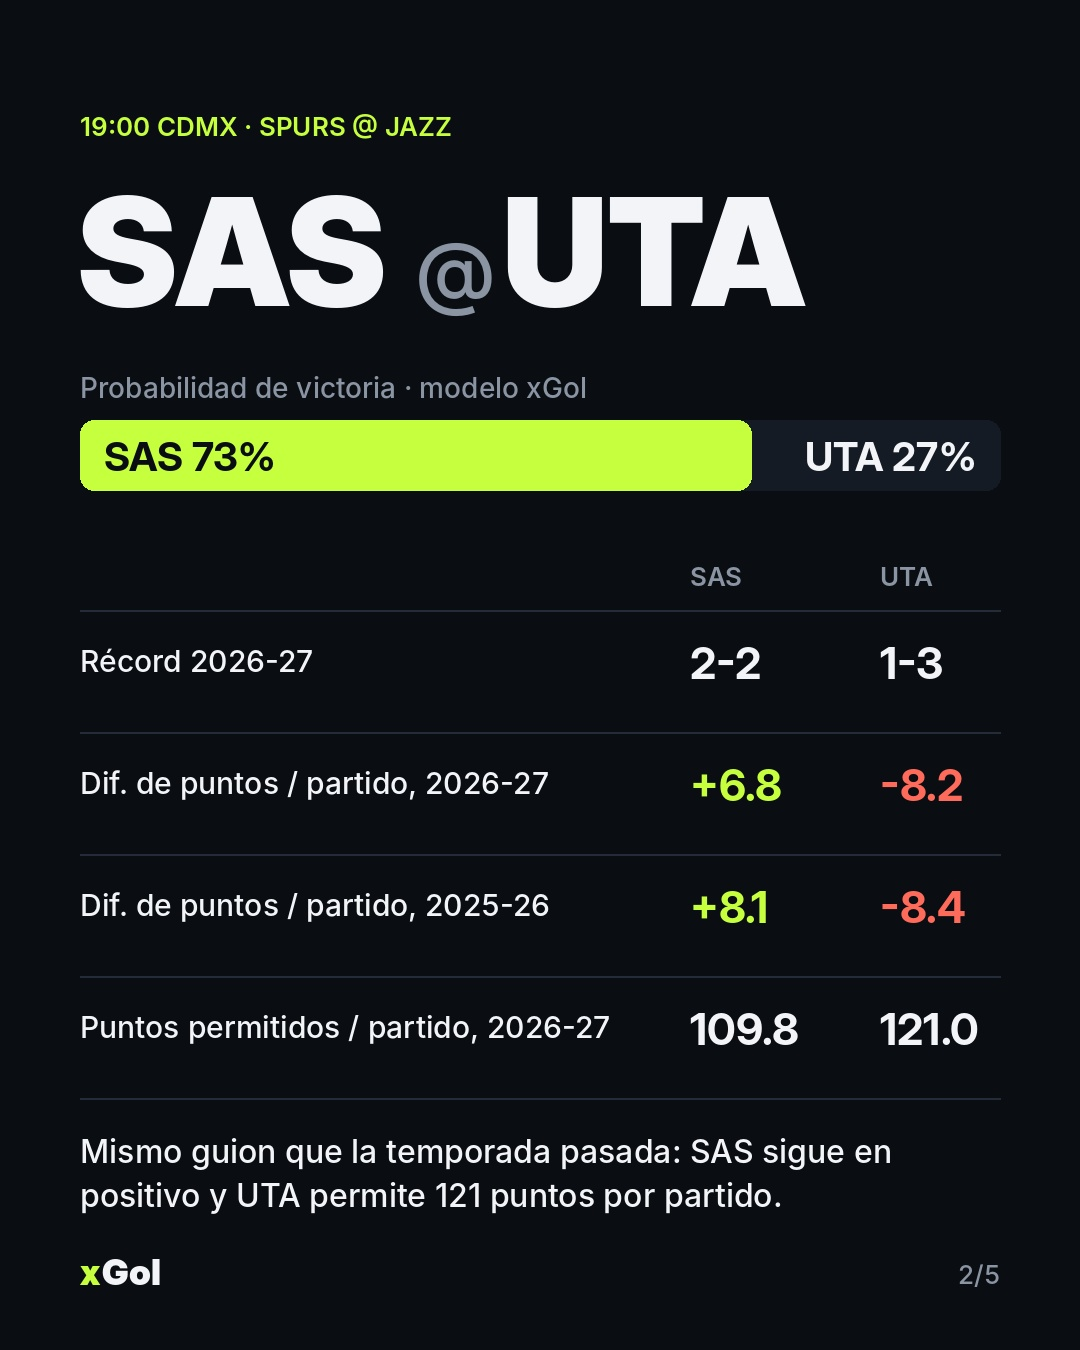
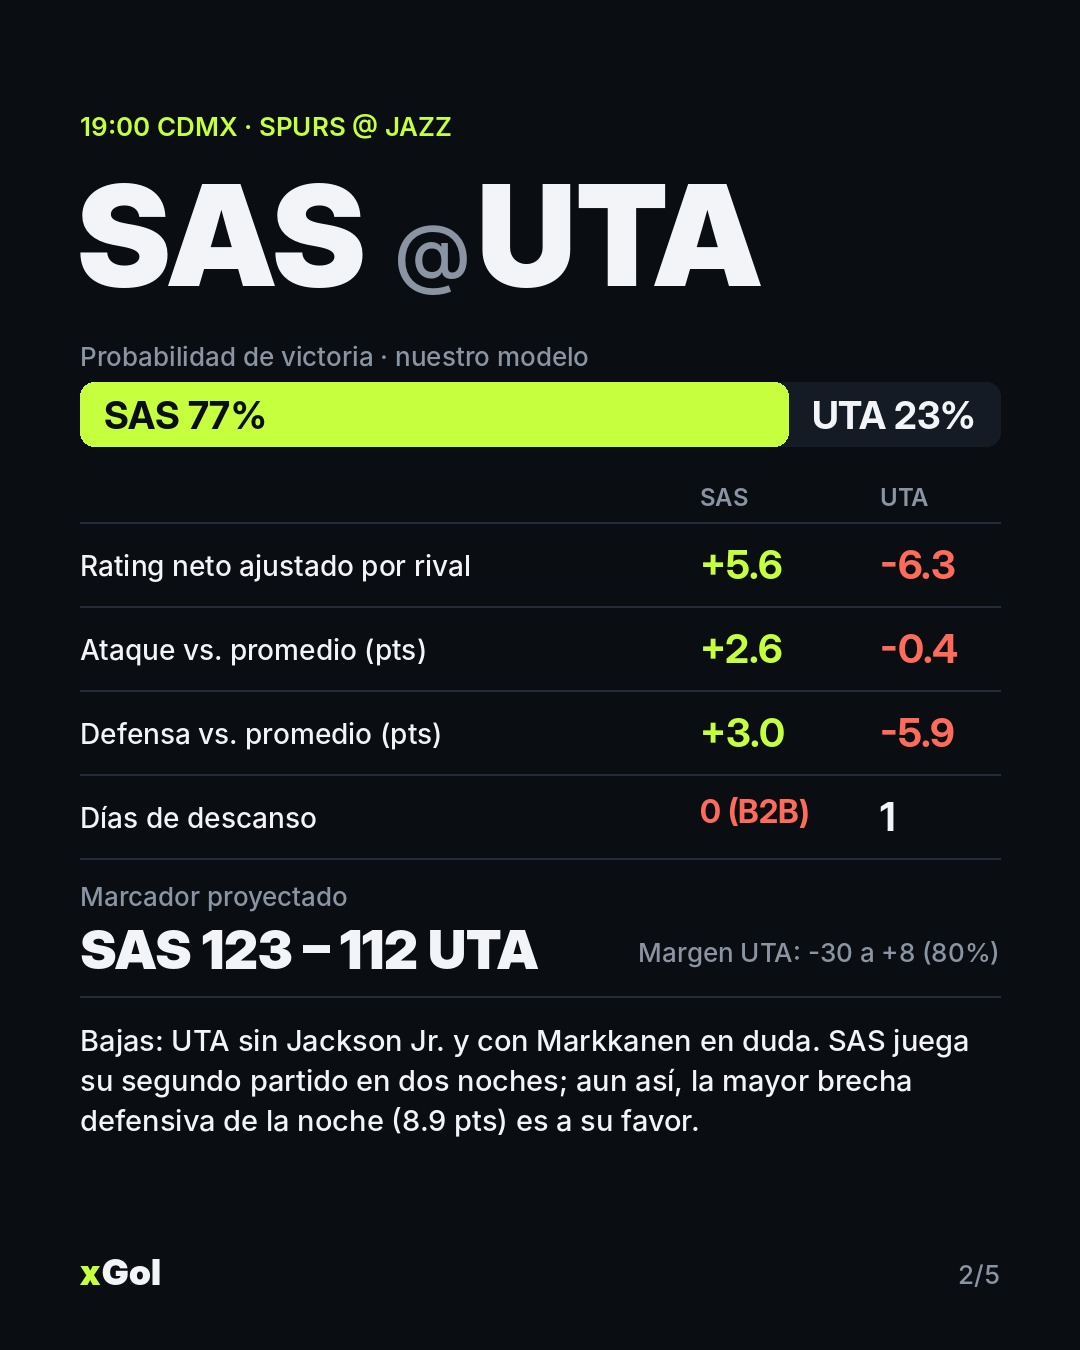
NBA 28 oct: modelo v1 (ataque/defensa ajustado), publicar ya
Claude-Session: https://claude.ai/code/session_019jYWtjRCYpKgaXN9DnQXEh

diff --git a/studio/nba_noche.py b/studio/nba_noche.py
@@ -1,41 +1,40 @@
-"""xGol — NBA: la noche en números (3 partidos)."""
+"""xGol — NBA: la noche en números (v2, modelo ataque/defensa ajustado por rival)."""
 import json, os, sys
 sys.path.insert(0, os.path.dirname(os.path.abspath(__file__)))
 from render_car_gb import font, base, footer, para, kicker, BG, SURF, LINE, TXT, MUTED, ACC, NEG, W, H, M
 
-D = json.load(open(os.environ.get("NBA_JSON", "/tmp/nba_tonight.json")))
+D = json.load(open(os.environ["NBA_JSON"]))
+O, BT = D["out"], D["bt"]
 OUT = os.environ.get("XGOL_OUT", "/tmp/xgol-out/nba")
 os.makedirs(OUT, exist_ok=True)
 T = 5
 GAMES = [
     ("SAS@UTA", "SAS", "UTA", "19:00", "Spurs", "Jazz",
-     "Mismo guion que la temporada pasada: SAS sigue en positivo y UTA permite 121 puntos por partido."),
+     "Bajas: UTA sin Jackson Jr. y con Markkanen en duda. SAS juega su segundo partido en dos noches; aun así, la mayor brecha defensiva de la noche (8.9 pts) es a su favor."),
     ("OKC@DAL", "OKC", "DAL", "19:30", "Thunder", "Mavericks",
-     "OKC no ha bajado el ritmo: +11.1 por partido el año pasado y +10.5 en su arranque 4-0."),
+     "La defensa de OKC es la mejor de la noche: permite 7.9 pts menos que el promedio. Bajas: OKC sin Holmgren ni Caruso; DAL sin Lively e Irving en duda."),
     ("LAL@LAC", "LAL", "LAC", "20:30", "Lakers", "Clippers",
-     "Empate técnico. LAL arranca en +8.0, pero el año pasado fue +1.8: el modelo no se cree todavía el arranque."),
+     "Ojo: el modelo no ve lesiones. Sin Dončić (espalda), el 52% de LAL probablemente está inflado. LAC sin Ingram, Beal ni Hachimura; LAL en segunda noche seguida."),
 ]
 
 
 def pct(key):
-    p_home = D["out"][key]["p_home"]
+    p_home = O[key]["p_home"]
     return 100 - p_home, p_home
 
 
 def bar(d, y, a, h, pa, ph):
     bw = W - 2 * M
-    d.rounded_rectangle((M, y, M + bw, y + 70), radius=14, fill=SURF)
-    fav_home = ph >= pa
-    if pa == ph:
-        d.rounded_rectangle((M, y, M + bw // 2, y + 70), radius=14, fill=MUTED)
-    elif fav_home:
-        d.rounded_rectangle((M + bw - int(bw * ph / 100), y, M + bw, y + 70), radius=14, fill=ACC)
+    d.rounded_rectangle((M, y, M + bw, y + 64), radius=14, fill=SURF)
+    fav_home = ph > pa
+    if fav_home:
+        d.rounded_rectangle((M + bw - int(bw * ph / 100), y, M + bw, y + 64), radius=14, fill=ACC)
     else:
-        d.rounded_rectangle((M, y, M + int(bw * pa / 100), y + 70), radius=14, fill=ACC)
-    fn = font("InterDisplay-Bold.otf", 40)
-    d.text((M + 24, y + 12), f"{a} {pa}%", font=fn, fill=BG if (not fav_home and pa != ph) else TXT)
+        d.rounded_rectangle((M, y, M + int(bw * pa / 100), y + 64), radius=14, fill=ACC)
+    fn = font("InterDisplay-Bold.otf", 38)
+    d.text((M + 24, y + 10), f"{a} {pa}%", font=fn, fill=TXT if fav_home else BG)
     s = f"{h} {ph}%"
-    d.text((M + bw - 24 - d.textlength(s, font=fn), y + 12), s, font=fn, fill=BG if (fav_home and pa != ph) else TXT)
+    d.text((M + bw - 24 - d.textlength(s, font=fn), y + 10), s, font=fn, fill=BG if fav_home else TXT)
 
 
 def cover():
@@ -47,59 +46,73 @@ def cover():
     y = 470
     for key, a, h, hour, *_ in GAMES:
         pa, ph = pct(key)
+        o = O[key]
         d.line((M, y, W - M, y), fill=LINE, width=2)
-        y += 30
-        d.text((M, y), hour, font=font("Inter-SemiBold.otf", 30), fill=MUTED)
-        d.text((M + 130, y - 10), f"{a} @ {h}", font=font("InterDisplay-Black.otf", 60), fill=TXT)
+        y += 26
+        d.text((M, y + 8), hour, font=font("Inter-SemiBold.otf", 30), fill=MUTED)
+        d.text((M + 130, y - 4), f"{a} @ {h}", font=font("InterDisplay-Black.otf", 58), fill=TXT)
         fav = a if pa > ph else h
-        s = "50 / 50" if pa == ph else f"{fav} {max(pa, ph)}%"
+        s = f"{fav} {max(pa, ph)}%"
         fs = font("InterDisplay-Bold.otf", 44)
-        d.text((W - M - d.textlength(s, font=fs), y - 2), s, font=fs, fill=ACC if pa != ph else TXT)
-        y += 120
+        d.text((W - M - d.textlength(s, font=fs), y + 2), s, font=fs, fill=ACC)
+        proj = f"Proyección {a} {o['pa']:.0f} – {o['ph']:.0f} {h}"
+        d.text((M + 130, y + 70), proj, font=font("Inter-Medium.otf", 28), fill=MUTED)
+        y += 128
     d.line((M, y, W - M, y), fill=LINE, width=2)
-    para(d, (M, y + 40), "Probabilidad de victoria según el modelo xGol. Desliza para ver los números de cada duelo.",
-         font("Inter-Regular.otf", 32), MUTED, W - 2 * M, 44)
+    para(d, (M, y + 36), "Probabilidad de victoria y marcador proyectado con nuestro modelo de ataque y defensa ajustados por rival. Desliza.",
+         font("Inter-Regular.otf", 30), MUTED, W - 2 * M, 42)
     footer(d, 1, T)
     return im
 
 
 def game_slide(i, key, a, h, hour, na, nh, story):
     im, d = base()
-    o = D["out"][key]
+    o = O[key]
     pa, ph = pct(key)
     kicker(d, 110, f"{hour} CDMX · {na} @ {nh}")
-    fb = font("InterDisplay-Black.otf", 150)
-    d.text((M - 4, 160), a, font=fb, fill=TXT)
+    fb = font("InterDisplay-Black.otf", 140)
+    d.text((M - 4, 150), a, font=fb, fill=TXT)
     wa = d.textlength(a, font=fb)
-    d.text((M + wa + 24, 222), "@", font=font("InterDisplay-Medium.otf", 80), fill=MUTED)
-    d.text((M + wa + 110, 160), h, font=fb, fill=TXT)
-    d.text((M, 370), "Probabilidad de victoria · modelo xGol", font=font("Inter-Medium.otf", 28), fill=MUTED)
-    bar(d, 420, a, h, pa, ph)
+    d.text((M + wa + 24, 206), "@", font=font("InterDisplay-Medium.otf", 76), fill=MUTED)
+    d.text((M + wa + 106, 150), h, font=fb, fill=TXT)
+    d.text((M, 340), "Probabilidad de victoria · nuestro modelo", font=font("Inter-Medium.otf", 26), fill=MUTED)
+    bar(d, 382, a, h, pa, ph)
     rows = [
-        ("Récord 2026-27", o["a"]["rec"], o["h"]["rec"], False),
-        ("Dif. de puntos / partido, 2026-27", f"{o['a']['cur']:+.1f}", f"{o['h']['cur']:+.1f}", True),
-        ("Dif. de puntos / partido, 2025-26", f"{o['a']['prev']:+.1f}", f"{o['h']['prev']:+.1f}", True),
-        ("Puntos permitidos / partido, 2026-27", f"{o['a']['opp']:.1f}", f"{o['h']['opp']:.1f}", False),
+        ("Rating neto ajustado por rival", o["net_a"], o["net_h"], True),
+        ("Ataque vs. promedio (pts)", o["off_a"], o["off_h"], True),
+        ("Defensa vs. promedio (pts)", -o["def_a"], -o["def_h"], True),
+        ("Días de descanso", o["rest"][a], o["rest"][h], False),
     ]
-    y = 560
-    fh = font("Inter-SemiBold.otf", 26)
-    cx1, cx2 = 690, 880
+    y = 482
+    fh = font("Inter-SemiBold.otf", 24)
+    cx1, cx2 = 700, 880
     d.text((cx1, y), a, font=fh, fill=MUTED); d.text((cx2, y), h, font=fh, fill=MUTED)
-    y += 50
-    fl = font("Inter-Medium.otf", 30)
-    fv = font("InterDisplay-Bold.otf", 44)
+    y += 40
+    fl = font("Inter-Medium.otf", 28)
+    fv = font("InterDisplay-Bold.otf", 40)
     for lab, va, vh, signed in rows:
         d.line((M, y, W - M, y), fill=LINE, width=2)
-        y += 26
-        para(d, (M, y + 6), lab, fl, TXT, 560, 38)
+        y += 18
+        d.text((M, y + 8), lab, font=fl, fill=TXT)
         for cx, v in ((cx1, va), (cx2, vh)):
-            col = TXT
             if signed:
-                col = ACC if v.startswith("+") else NEG
-            d.text((cx, y), v, font=fv, fill=col)
-        y += 96
+                s, col = f"{v:+.1f}", (ACC if v > 0 else NEG)
+            else:
+                s, col = (f"{v}" if v else "0 (B2B)"), (TXT if v else NEG)
+            d.text((cx, y), s, font=fv if signed or v else font("InterDisplay-Bold.otf", 32), fill=col)
+        y += 66
     d.line((M, y, W - M, y), fill=LINE, width=2)
-    para(d, (M, y + 34), story, font("Inter-Medium.otf", 32), TXT, W - 2 * M, 44)
+    y += 22
+    fav, m = (h, o["margin"]) if o["margin"] > 0 else (a, -o["margin"])
+    d.text((M, y), "Marcador proyectado", font=font("Inter-Medium.otf", 26), fill=MUTED)
+    s = f"{a} {o['pa']:.0f} – {o['ph']:.0f} {h}"
+    d.text((M, y + 36), s, font=font("InterDisplay-Black.otf", 54), fill=TXT)
+    lo, hi = o["lo"], o["hi"]
+    rng = f"Margen {h}: {lo:+.0f} a {hi:+.0f} (80%)"
+    d.text((W - M - d.textlength(rng, font=font("Inter-Medium.otf", 26)), y + 56), rng, font=font("Inter-Medium.otf", 26), fill=MUTED)
+    y += 116
+    d.line((M, y, W - M, y), fill=LINE, width=2)
+    para(d, (M, y + 26), story, font("Inter-Medium.otf", 29), TXT, W - 2 * M, 40)
     footer(d, i, T)
     return im
 
@@ -107,25 +120,34 @@ def game_slide(i, key, a, h, hour, na, nh, story):
 def method():
     im, d = base()
     kicker(d, 110, "Cómo lo calculamos")
-    f = font("InterDisplay-Black.otf", 92)
-    d.text((M, 160), "Modelo xGol", font=f, fill=TXT)
-    d.text((M, 262), "NBA v0", font=f, fill=TXT)
+    f = font("InterDisplay-Black.otf", 88)
+    d.text((M, 160), "Modelo NBA v1", font=f, fill=TXT)
     items = [
-        ("1", "Fuerza de cada equipo = diferencia de puntos por partido."),
-        ("2", "Mezclamos la temporada pasada (reducida a la mitad) con este arranque. El arranque pesa más con cada partido jugado."),
-        ("3", "+1.8 puntos por jugar en casa (promedio 2025-26)."),
-        ("4", "Error típico de ±14 puntos por partido → probabilidad."),
+        ("1", "Cada marcador se descompone en ataque de un equipo + defensa del rival + localía (regresión ridge)."),
+        ("2", "Punto de partida: 60% del nivel 2025-26. Cada partido nuevo pesa más que el anterior."),
+        ("3", f"Error típico ±{BT['sd']:.1f} pts por partido → probabilidad e intervalo del 80%."),
     ]
-    y = 440
+    y = 300
     for n, t in items:
-        d.text((M, y - 6), n, font=font("InterDisplay-Black.otf", 54), fill=ACC)
-        y = max(para(d, (M + 80, y), t, font("Inter-Medium.otf", 32), TXT, W - 2 * M - 80, 44), y + 44) + 36
-    d.line((M, y, W - M, y), fill=LINE, width=2)
-    fs = font("Inter-Regular.otf", 27)
-    y = para(d, (M, y + 30), "Cada equipo lleva apenas 3 o 4 partidos: incertidumbre alta. Un 73% significa que el otro gana en más de 1 de cada 4 escenarios.",
-             fs, MUTED, W - 2 * M, 38)
-    para(d, (M, y + 20), "Datos: BALLDONTLIE, temporada regular 2025-26 y 2026-27. Análisis independiente, no afiliado a la NBA ni a ningún equipo. No es recomendación de apuesta.",
-         fs, MUTED, W - 2 * M, 38)
+        d.text((M, y - 6), n, font=font("InterDisplay-Black.otf", 50), fill=ACC)
+        y = max(para(d, (M + 70, y), t, font("Inter-Medium.otf", 30), TXT, W - 2 * M - 70, 41), y + 41) + 28
+    # backtest box
+    y += 6
+    d.rounded_rectangle((M, y, W - M, y + 330), radius=20, fill=SURF)
+    d.text((M + 32, y + 26), "PRUEBA FUERA DE MUESTRA · 2025-26", font=font("Inter-Bold.otf", 22), fill=ACC)
+    para(d, (M + 32, y + 62), f"{BT['n']:,} partidos predichos solo con datos previos a cada día.",
+         font("Inter-Regular.otf", 26), MUTED, W - 2 * M - 64, 34)
+    cols = [(f"{100*BT['acc']:.0f}%", "aciertos"), (f"{BT['brier']:.3f}", f"Brier (ref. {BT['base']:.3f})"), ("81%", "ganó cuando dijo 70-80%")]
+    cw = (W - 2 * M - 64) // 3
+    for k, (v, l) in enumerate(cols):
+        x = M + 32 + k * cw
+        d.text((x, y + 136), v, font=font("InterDisplay-Black.otf", 64), fill=TXT)
+        para(d, (x, y + 220), l, font("Inter-Medium.otf", 24), MUTED, cw - 20, 32)
+    y += 360
+    para(d, (M, y), "Límites: no ve lesiones ni rotaciones, y en octubre hay pocos partidos. Menor Brier = mejor.",
+         font("Inter-Regular.otf", 26), MUTED, W - 2 * M, 36)
+    para(d, (M, H - 175), "Datos: BALLDONTLIE y reportes de lesiones públicos al 28 oct, 18:00 CDMX. Análisis independiente, no afiliado a la NBA ni a sus equipos. No es recomendación de apuesta.",
+         font("Inter-Regular.otf", 19), MUTED, W - 2 * M, 26)
     footer(d, 5, T)
     return im
 
